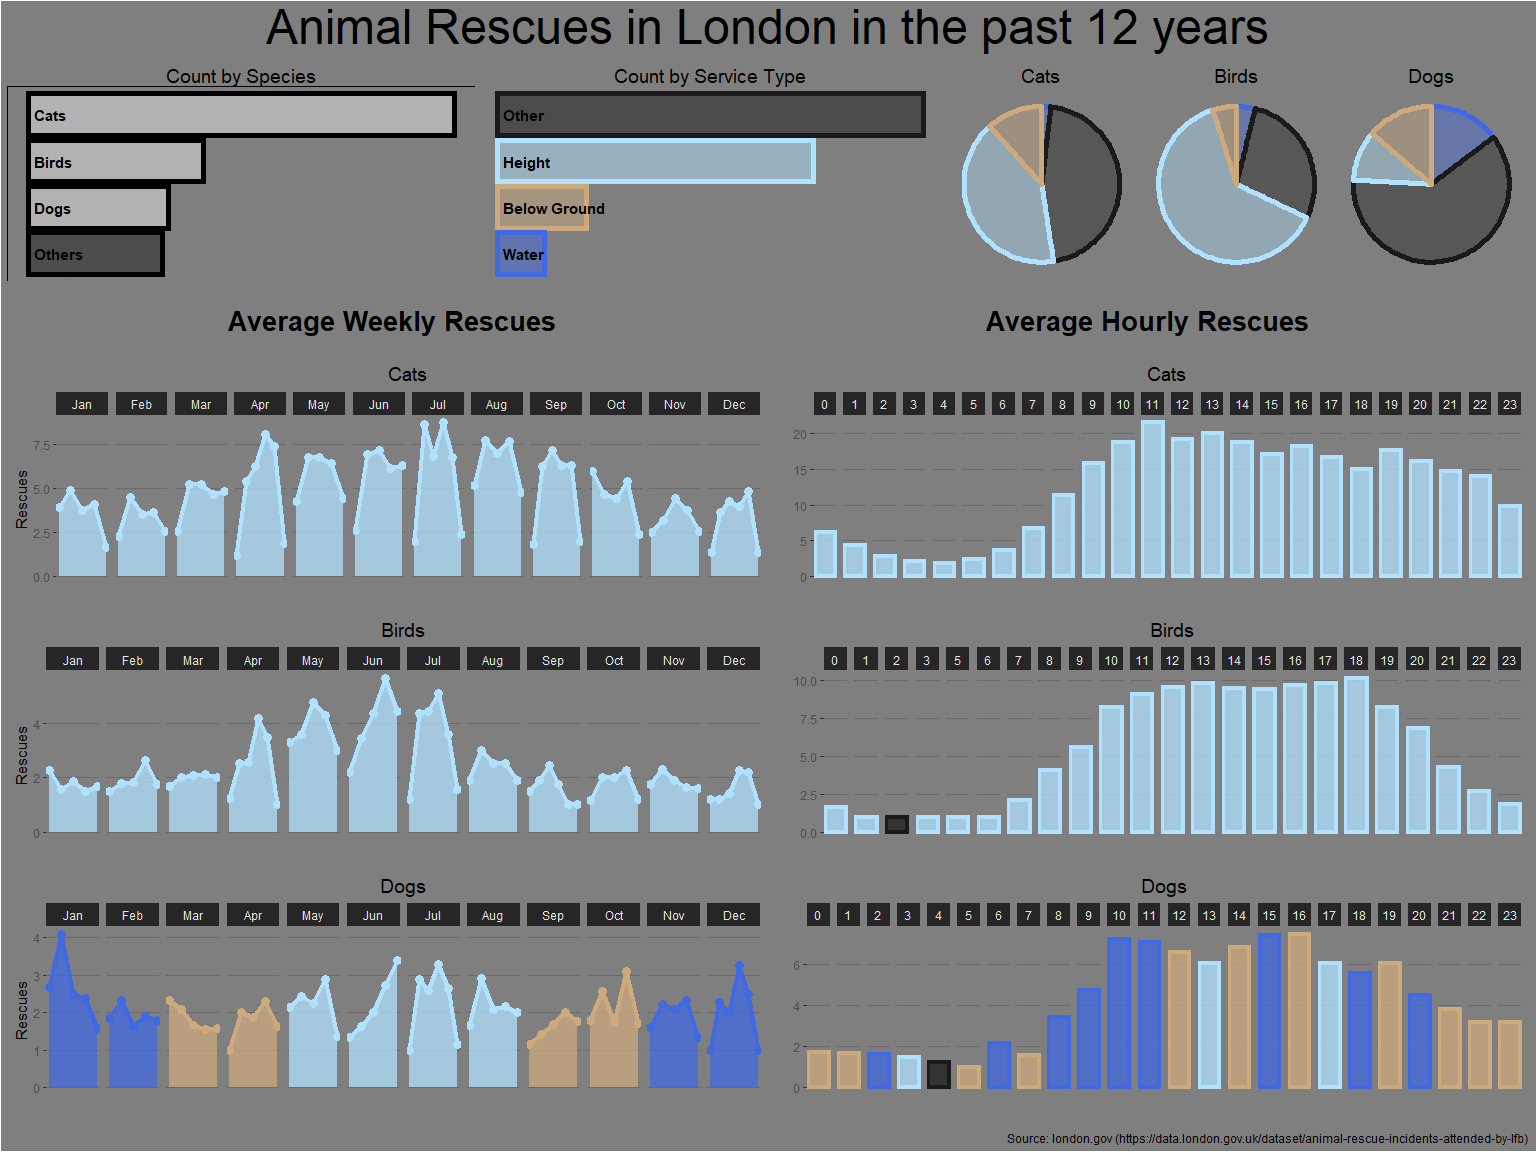
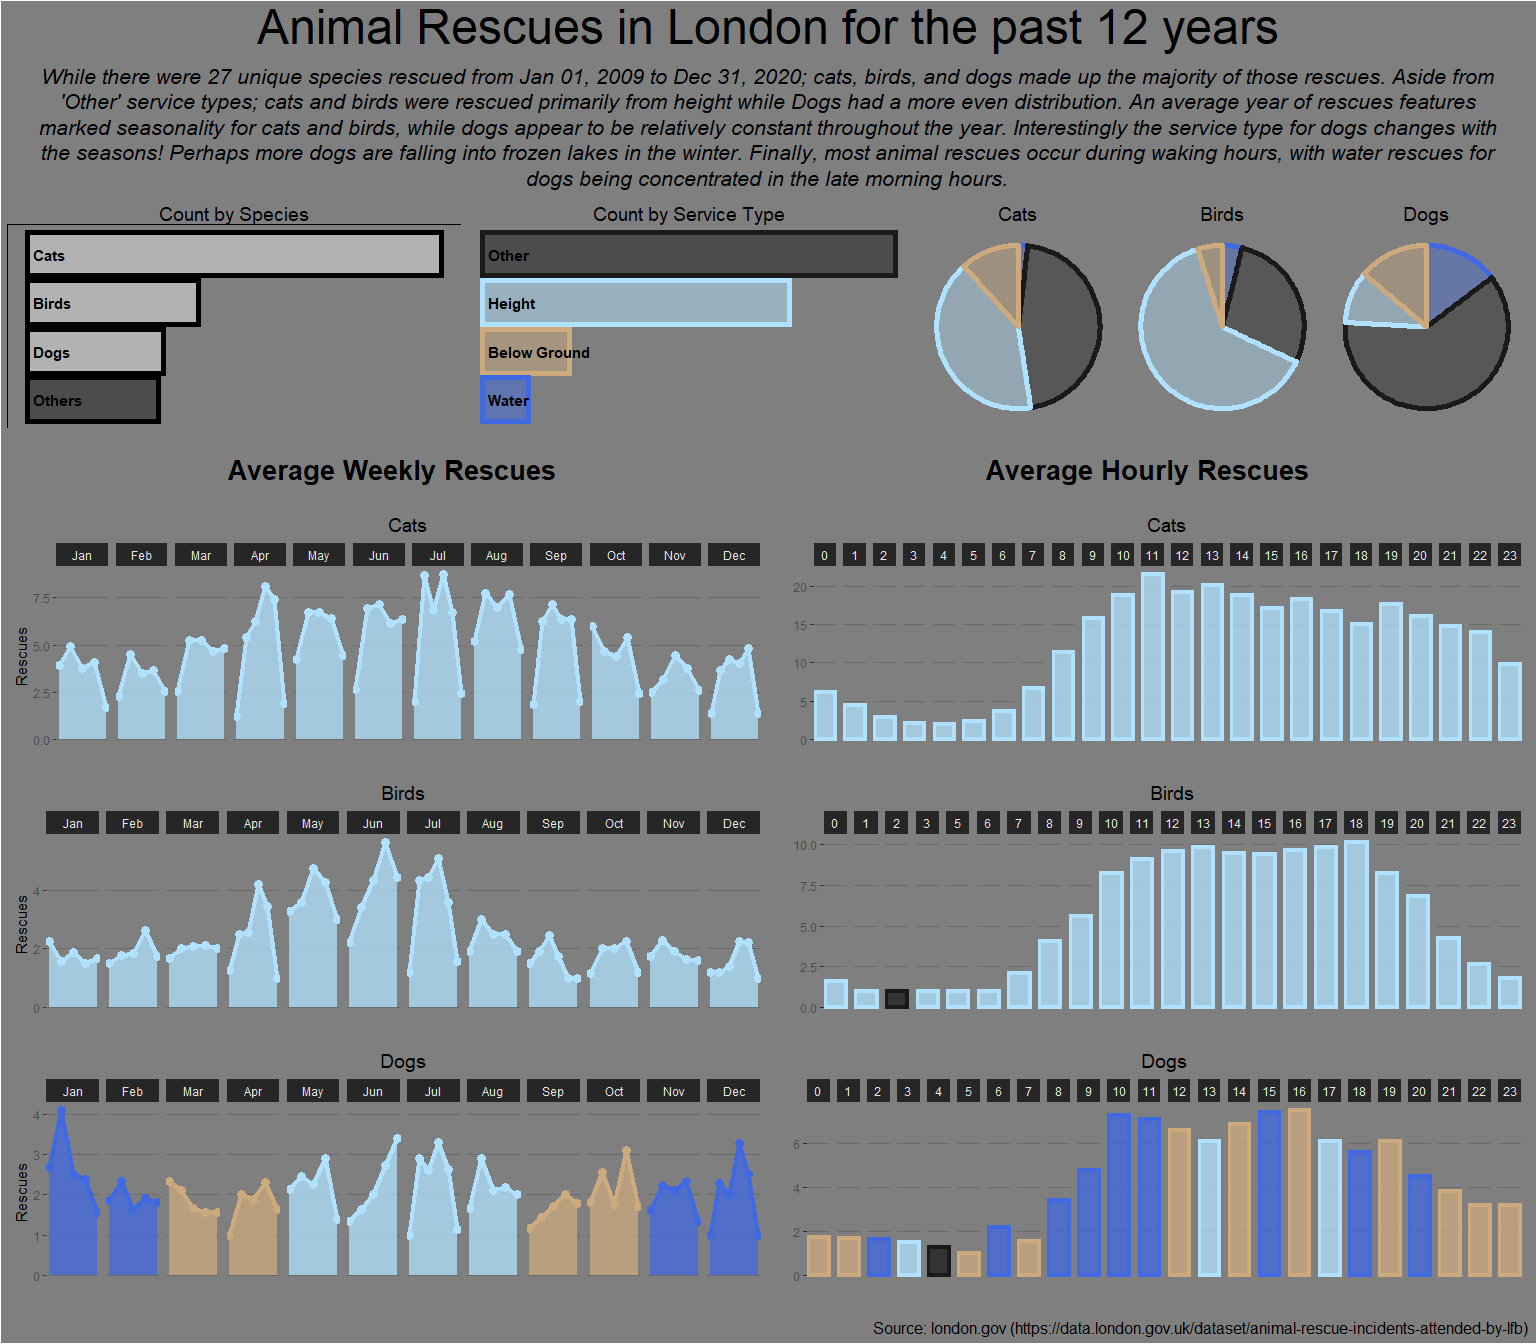
add prose to plot
figured out how to use ggtext to add more pretty text around plots

diff --git a/20210629 - Animal Rescues/20210629_animal_rescue.md b/20210629 - Animal Rescues/20210629_animal_rescue.md
@@ -100,6 +100,7 @@ unredacted <- ar %>%
 # values
 min_date <- strftime(min(ar$date), format = "%b %d, %Y")
 max_date <- strftime(max(ar$date), format = "%b %d, %Y")
+unique_species <- length(unique(ar$animal_group_parent))
 ```
 
 ``` r
@@ -486,7 +487,7 @@ dog_pie <- plot_service_type_pie(ar_pie, "dog")
 pies <- plot_grid(cat_pie, bird_pie, dog_pie, ncol = 3)
 ```
 
-#### Grid the top layer
+#### Patchwork all plots
 
 ``` r
 # plot_grid(species_bar, service_bar, cat_pie, bird_pie, dog_pie,
@@ -496,10 +497,13 @@ pies <- plot_grid(cat_pie, bird_pie, dog_pie, ncol = 3)
   years_hours_plots + 
   plot_layout(heights = c(3,13)) + 
   plot_annotation(
-    title = glue("Animal Rescues in London in the past {df_duration} years"),
+    title = glue("Animal Rescues in London for the past {df_duration} years"),
+    subtitle = glue("While there were {unique_species} unique species rescued from {min_date} to {max_date}; cats, birds, and dogs made up the majority of those rescues. Aside from 'Other' service types; cats and birds were rescued primarily from height while Dogs had a more even distribution. An average year of rescues features marked seasonality for cats and birds, while dogs appear to be relatively constant throughout the year. Interestingly the service type for dogs changes with the seasons! Perhaps more dogs are falling into frozen lakes in the winter. Finally, most animal rescues occur during waking hours, with water rescues for dogs being concentrated in the late morning hours.\n"),
     caption = "Source: london.gov (https://data.london.gov.uk/dataset/animal-rescue-incidents-attended-by-lfb)",
     theme = theme(
       plot.title = element_text(size = 36, hjust = 0.5),
+      plot.subtitle = element_textbox_simple(size = 16, margin = margin(5,16,7,16), face = "italic", hjust = 0.5, halign = 0.5),
+      plot.caption = element_text(size = 12),
       plot.background = element_rect(fill = "gray50")
     )
   )
